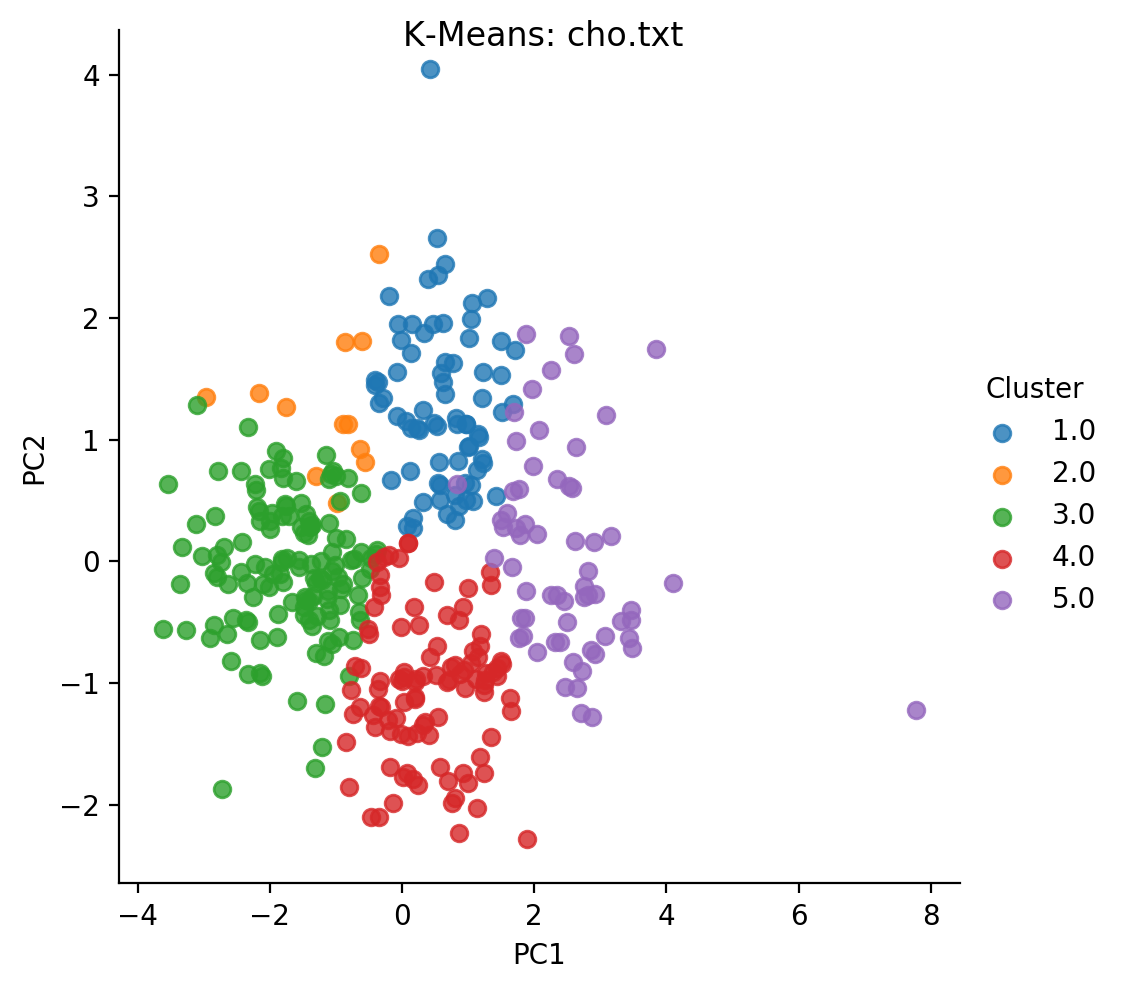
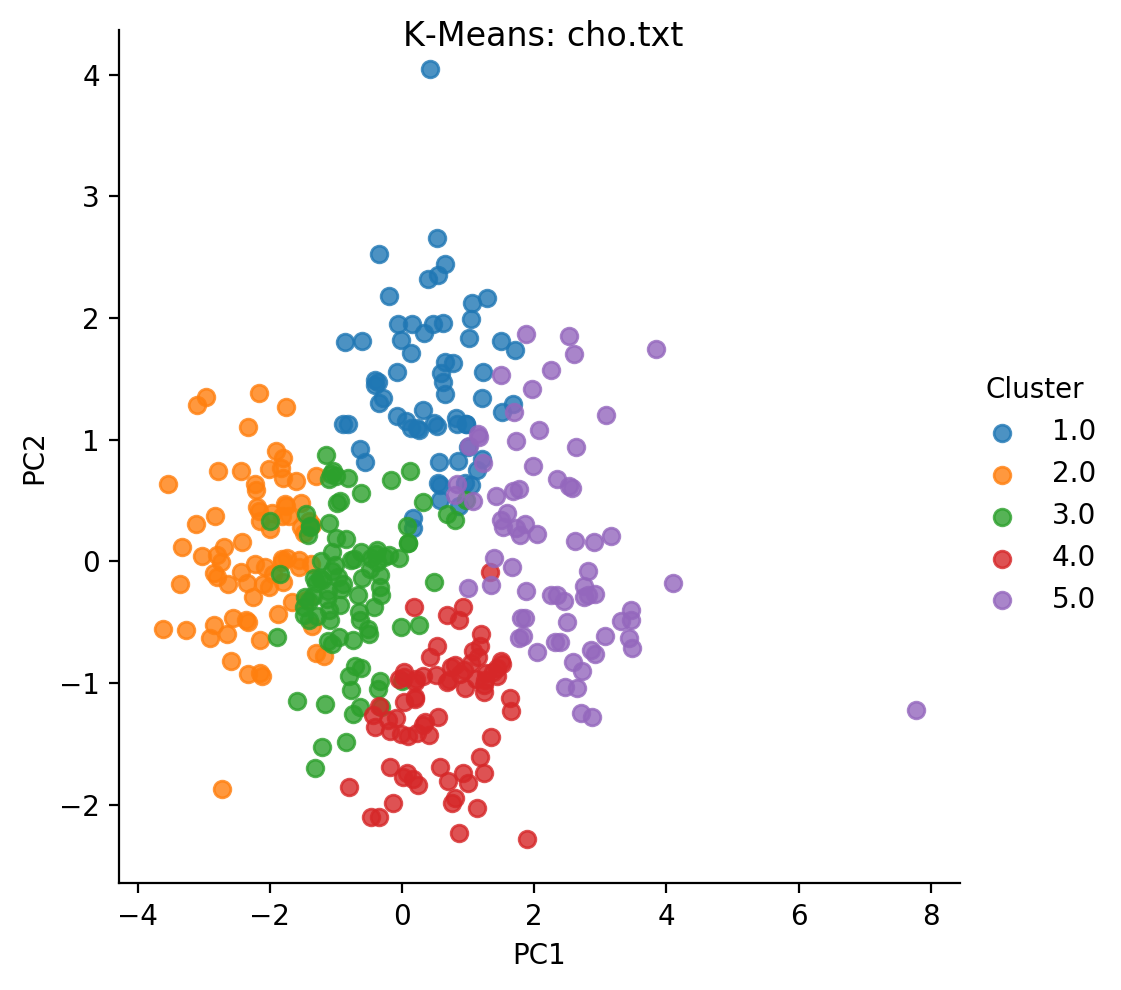
Implemented all algos

diff --git a/Code/gaussian_mixture.py b/Code/gaussian_mixture.py
@@ -16,7 +16,8 @@ class DataSet:
         self.conv_threshold = conv_threshold
         self.max_iterations = max_iterations
         self.read_file()
-        print(self.process_E_step())
+        self.process_k_means()
+        self.process_GMM()
 
     def read_file(self):
         rows = []
@@ -28,35 +29,209 @@ class DataSet:
         self.rows = np.array(rows, dtype=np.float64)
         self.data = np.copy(self.rows)
 
-        print("Now enter initial parameters for {} clusters for data file {}".format(self.k, self.file_name))
-        self.initial_params = []
+        if input("Do you want to enter starting points by row id? (Y/N):").upper() == 'Y':
+            self.get_initial_points_by_index()
+            return
+
+        self.get_initial_points_by_points()
+
+    def get_initial_points_by_index(self):
+        initial_indices = []
         count = 0
         while count < self.k:
-            line = input("Enter the initial cluster starting points with {} dimenstions separated by commas:".format(self.data.shape[1] - 2))
-            self.initial_params.append([float(x) for x in line.split(",")])
-
-            if len(self.initial_params[-1]) != 3:
-                raise Exception("Please enter the initial parameters in the order: pi, mu, Sigma")
+            idx = int(input("Enter the initial cluster starting point index:"))
+            initial_indices.append(idx)
             count += 1
 
-    def process_E_step(self):
-        for i in range(self.max_iterations):               
-            r_ik = np.zeros((self.data.shape[0], self.k))
-            for param, r in zip(self.initial_params, range(len(r_ik[0]))):
-                p, m, co = param
-                mn = multivariate_normal(mean=m,cov=co)
-                print(multivariate_normal.pdf(self.data[:, 2:], mean=m,cov=co))
-                print(p * mn.pdf(self.data[:, 2:]))
-                r_ik[:,r] = p*mn.pdf(self.data[:, 2:])/np.sum([pi_c*multivariate_normal(mean=mu_c,cov=cov_c).pdf(self.data[:, 2:]) for pi_c,mu_c,cov_c in self.initial_params],axis=0)
+        data_dict = dict()
+        for row in self.data:
+            data_dict[row[0]] = row[2:]
 
-        return r_ik
+        self.initial_points = []
+
+        for idx in initial_indices:
+            self.initial_points.append(data_dict[idx])
+
+    def get_initial_points_by_points(self):
+        print("Now enter starting points for {} clusters for data file {}".format(self.k, self.file_name))
+        self.initial_points = []
+        count = 0
+        while count < self.k:
+            line = input("Enter the initial cluster starting points with {} dimenstions separated by tabs:".format(self.data.shape[1] - 2))
+            self.initial_points.append([float(x) for x in re.split("\t+", line)])
+
+            if len(self.initial_points[-1]) != self.data.shape[1] - 2:
+                raise Exception("Incorrect dimensions for the starting point.")
+            count += 1
+
+        self.initial_points = np.array(self.initial_points, dtype=np.float64)
+
+    def assign_clusters(self):
+        cluster_dict = dict()
+
+        for row in self.data:
+            min_dist = float("inf")
+            min_cluster = -1
+
+            for i, center in enumerate(self.initial_points):
+                distance = abs(np.linalg.norm(row[2:] - center))
+                if distance < min_dist:
+                    min_dist = distance
+                    min_cluster = i + 1
+
+            if min_cluster not in cluster_dict:
+                cluster_dict[min_cluster] = []
+
+            cluster_dict[min_cluster].append(row)
+
+        for k, v in cluster_dict.items():
+            cluster_dict[k] = np.array(v, dtype=np.float64)
+
+        return cluster_dict
+
+    def adjust_centers(self, cluster_dict):
+        centers = [None] * self.k
+        for k, v in cluster_dict.items():
+            centers[k - 1] = list(v[:, 2:].mean(axis=0))
+
+        for i, c in enumerate(centers):
+            if c is None:
+                centers[i] = self.initial_points[i]
+        return np.array(centers, dtype=np.float64)
+
+
+    def process_k_means(self):
+        iter = 1
+
+        cluster_dict = self.assign_clusters()
+        centers = self.adjust_centers(cluster_dict)
+
+        while not np.array_equal(centers, self.initial_points) and iter < self.max_iterations:
+            self.initial_points = centers
+            cluster_dict = self.assign_clusters()
+            centers = self.adjust_centers(cluster_dict)
+            iter += 1
+
+        self.mu = centers
+
+    def process_GMM(self):
+        self.reg_sigma = 1e-8 * np.identity(len(self.data[0]) - 2)
+        self.sigma = np.zeros((self.k, self.data.shape[1] - 2, self.data.shape[1] - 2), dtype='float')
+        for dim in range(len(self.sigma)):
+            np.fill_diagonal(self.sigma[dim], 1)
+        self.pi = np.ones(self.k) / self.k
+        log_likelyhoods = []
+        
+        for i in range(self.max_iterations):  
+            prob_matrix = np.zeros((self.data.shape[0], self.k))
+            for mu, sig, pi, idx in zip(self.mu, self.sigma, self.pi, range(self.k)):
+                sig += self.reg_sigma
+                mn = multivariate_normal(mean=mu, cov=sig, allow_singular=True)
+                prob_matrix[:, idx] = pi * mn.pdf(self.data[:, 2:]) / np.sum([pi_c * multivariate_normal(mean=mu_c,cov=cov_c, allow_singular=True).pdf(self.data[:, 2:]) 
+                for pi_c, mu_c, cov_c in zip(self.pi, self.mu, self.sigma + self.reg_sigma)], axis=0)
+
+            self.mu, self.sigma, self.pi = [], [], []
+
+            for c in range(len(prob_matrix[0])):
+                m_c = np.sum(prob_matrix[:,c], axis=0)
+                mu_c = (1/m_c) * np.sum(self.data[:, 2:] * prob_matrix[:, c].reshape(len(self.data), 1), axis=0)
+                self.mu.append(mu_c)
+                self.sigma.append(((1 / m_c) * np.dot((np.array(prob_matrix[:,c]).reshape(len(self.data), 1)*(self.data[:, 2:]-mu_c)).T,(self.data[:, 2:]-mu_c)))+self.reg_sigma)
+                self.pi.append(m_c / np.sum(prob_matrix))
+
+            log_likelyhoods.append(np.log(np.sum([self.k*multivariate_normal(mean=self.mu[i],cov=self.sigma[j], allow_singular=True).pdf(self.data[:, 2:]) for k,i,j in zip(self.pi,range(len(self.mu)),range(len(self.sigma)))])))
+
+        cluster_dict = dict()
+
+        for i, row in enumerate(prob_matrix):
+            max_val = float('-inf')
+            cluster = None
+            for j, col in enumerate(row):
+                if col > max_val:
+                    max_val = col
+                    cluster = j + 1
+
+            if cluster not in cluster_dict:
+                cluster_dict[cluster] = []
+
+            cluster_dict[cluster].append(self.data[i])
+
+        for k, v in cluster_dict.items():
+            cluster_dict[k] = np.array(v, dtype=np.float64)
+
+        self.result = None
+        for k, v in cluster_dict.items():
+            for r in v:
+                r[1] = k
+
+            if self.result is not None:
+                self.result = np.concatenate((self.result, v[:,0: 2]), axis=0)
+            else:
+                self.result = v[:,0: 2]
+
+        self.result = self.result[self.result[:,0].argsort()]
+
+        self.calculate_coefficients(cluster_dict)
+        
+        self.pca(cluster_dict)
+
+    def calculate_coefficients(self, algo_result):
+        P = np.zeros((self.rows.shape[0], self.rows.shape[0]), dtype=np.float64)
+        C = np.zeros((self.rows.shape[0], self.rows.shape[0]), dtype=np.float64)
+
+        ground_truth_dict = dict()
+
+        for r in self.rows:
+            ground_truth_dict[r[0]] = r[1]
+
+        algo_dict = dict()
+
+        for r in self.result:
+            algo_dict[r[0]] = r[1]
+
+        print(ground_truth_dict, algo_dict)
+
+        i = 0
+        while i < self.rows.shape[0]:
+            j = i + 1
+
+            while j < self.rows.shape[0]:
+                if ground_truth_dict[self.rows[i][0]] ==  ground_truth_dict[self.rows[j][0]]:
+                    P[i][j] = 1
+                    P[j][i] = 1
+
+                if algo_dict[self.rows[i][0]] == algo_dict[self.rows[j][0]]:
+                    C[i][j] = 1
+                    C[j][i] = 1
+
+                j += 1
+
+            i += 1
+
+        M00 = M10 = M01 = M11 = 0
+
+        for i in range(self.rows.shape[0]):
+            for j in range(self.rows.shape[0]):
+                if P[i][j] == 1 and C[i][j] == 1:
+                    M11 += 1
+                elif P[i][j] == 1 and C[i][j] == 0:
+                    M10 += 1
+                elif P[i][j] == 0 and C[i][j] == 1:
+                    M01 += 1
+                else:
+                    M00 += 1
+
+        rand_index = (M11 + M00) / (M11 + M00 + M10 + M01)
+        jaccard = (M11) / (M11 + M10 + M01)
+
+        print("For file {}:\n RandIndex: {}\n Jaccard Coefficient: {}\n".format(self.file_name, rand_index, jaccard))
 
     def pca(self, cluster_dict):
         pca = PCA(n_components=2, svd_solver='full')
         pca.fit(self.rows[:, 2:])
         principle_components_matrix = pca.transform(self.rows[:, 2:])
         df = pd.DataFrame(data = np.concatenate((principle_components_matrix, self.result[:, 1: 2]), axis=1), columns = ['PC1', 'PC2', 'Cluster'])
-        self.plot(df, "K-Means: {}".format(self.file_name))
+        self.plot(df, "GMM: {}".format(self.file_name))
 
     @staticmethod
     def plot(df, title):
